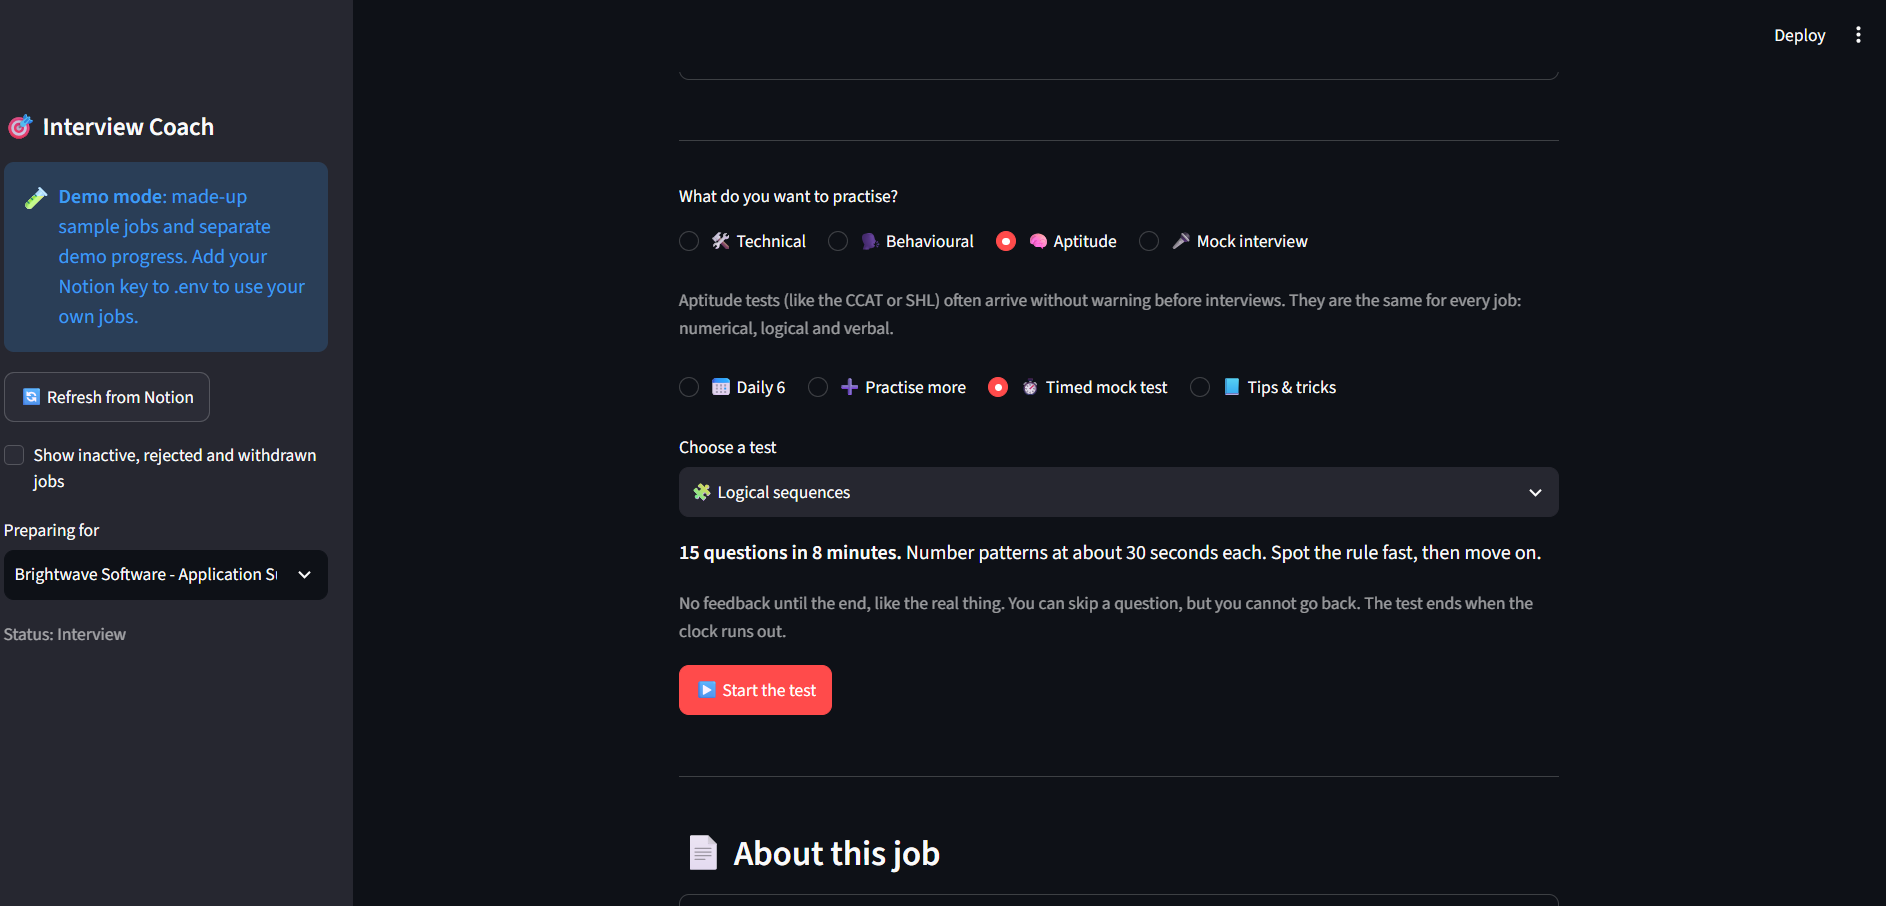
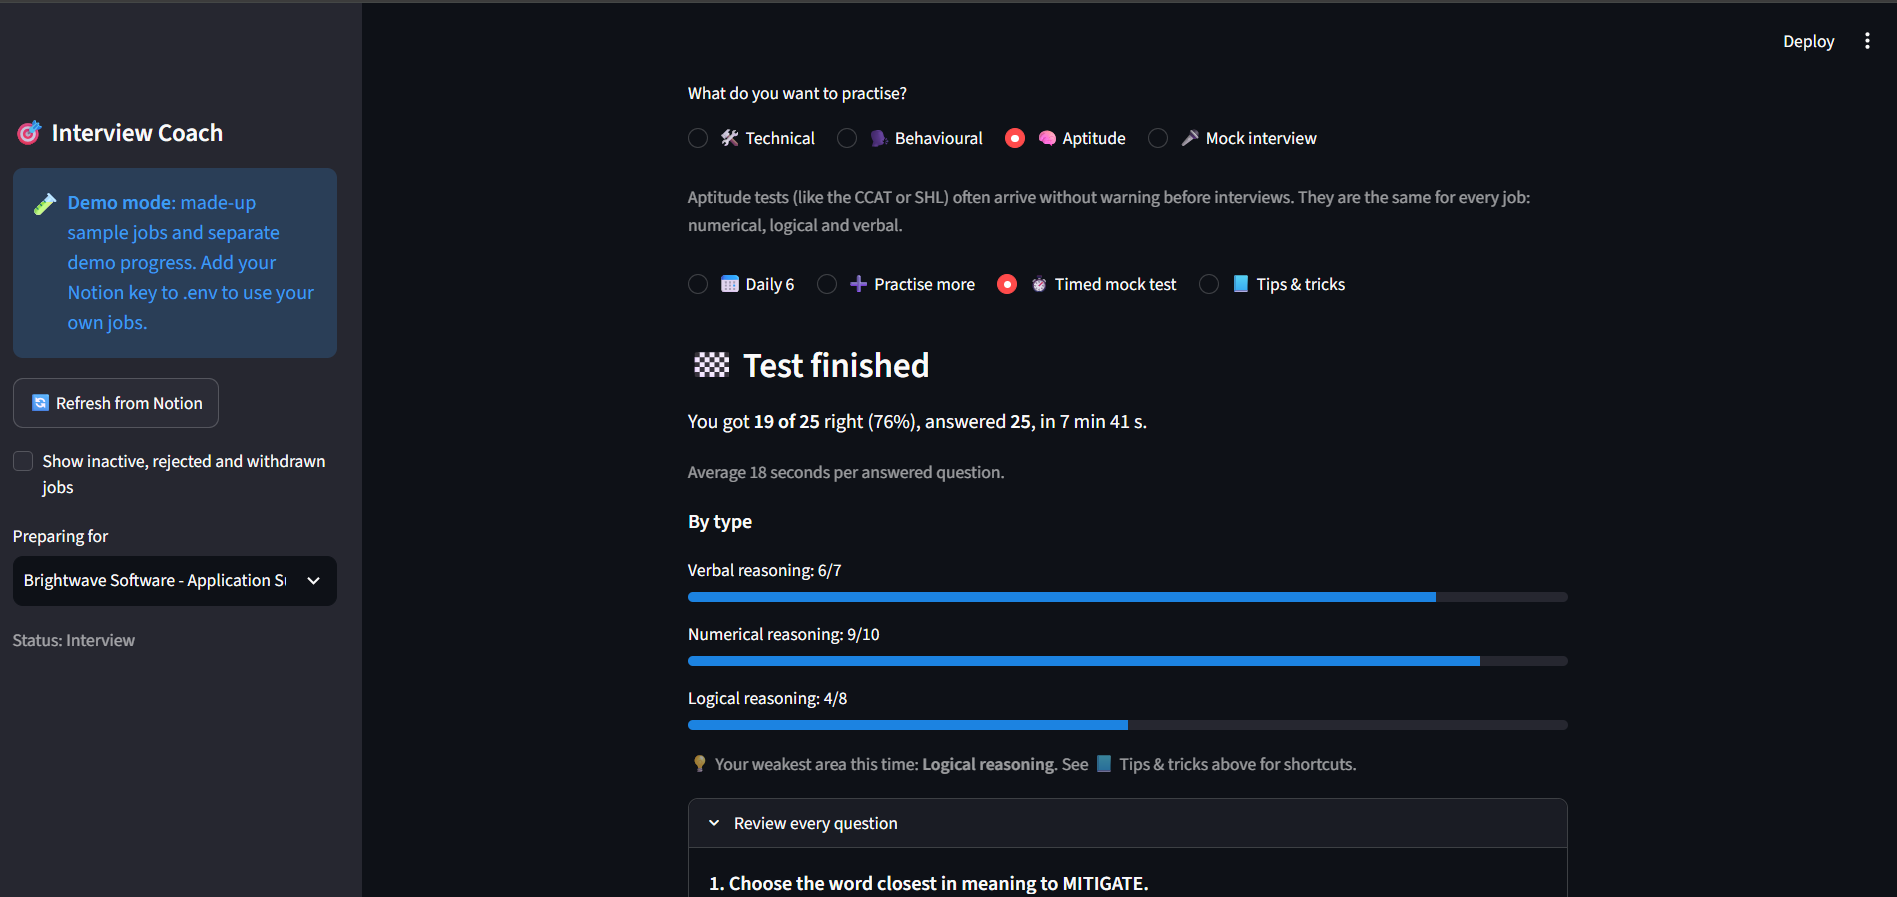
Add README, demo mode and screenshots

diff --git a/README.md b/README.md
@@ -1,87 +1,168 @@
-# ☁ Cloud Prep Hub
+# 🎯 Interview Coach
 
-**Free, interactive study site for the AWS Certified Cloud Practitioner (CLF-C02) exam.**
-Built by two engineers returning to IT, as a hands-on project in team Git workflows, Python automation and CI/CD.
+[![Tests](https://github.com/naseem-ie/Interview-Coach/actions/workflows/tests.yml/badge.svg)](https://github.com/naseem-ie/Interview-Coach/actions/workflows/tests.yml)
+![Python 3.11](https://img.shields.io/badge/python-3.11-blue)
+![Cost: €0](https://img.shields.io/badge/cost-%E2%82%AC0-brightgreen)
+![AI: runs locally](https://img.shields.io/badge/AI-runs%20locally-purple)
 
-🔗 **Live site:** https://naseem-ie.github.io/cloud-prep-hub/
+**A free, private interview-prep app that reads your job applications from Notion and builds daily practice for each role: quizzes, aptitude tests, AI-written questions and mock interviews scored by a local AI.**
 
-![CI/CD](https://github.com/naseem-ie/cloud-prep-hub/actions/workflows/ci-cd.yml/badge.svg)
+I built this while job hunting for application support and implementation roles in Ireland. I was tracking applications in Notion but preparing for interviews somewhere else, with no way to tell how ready I was for a *specific* job. Interview Coach connects the two: each job's skill gaps in Notion decide what you practise, and the app tracks your readiness per job.
+
+![Dashboard: readiness per job and overall progress](docs/screenshots/dashboard.png)
 
 ---
 
-## Features
+## ✨ Features
 
-| Page | What it does |
+| | What it does |
 |---|---|
-| **Home** | Exam readiness score (weighted by domain), domain overview, exam facts |
-| **Quiz** | Practice mode with instant explanations, or a timed exam simulation; per-domain score breakdown and answer review; retry incorrect questions |
-| **Flashcards** | 3D flip cards, filter by domain, shuffle, "Got it / Still learning" tracking, keyboard shortcuts |
-| **Notes** | Notes for all four domains, full-text search with highlighting, contents list with scroll-spy, completion tracking |
+| 🔗 **Reads your Notion job tracker** | Every application, recruiter chat and "to apply" job in one list. Pick a job, see its description, update its status back in Notion. |
+| 🎯 **Per-job readiness** | Technical and behavioural readiness % for the selected job, with a topic-by-topic breakdown of what to work on. |
+| 📅 **Daily challenges** | 5 questions a day per job, picked from a reviewed bank of 86 questions on 17 topics. Spaced repetition brings back questions you got wrong. |
+| 🤖 **AI practice for skill gaps** | When a job needs a skill the bank doesn't cover (say, PowerShell or PRINCE2), a local AI writes practice questions for it. Bad questions can be removed in one click. |
+| 🎤 **Mock interviews** | Open behavioural and job-specific questions. Type your answer and get a score out of 10 against a STAR checklist, a strength and two tips. Past interviews are saved to re-read. |
+| 🧠 **Aptitude tests** | Numerical, logical and verbal reasoning: a daily set, unlimited practice, timed CCAT- and SHL-style mock tests, and a tips & tricks guide. |
+| 🔥 **Gamified progress** | XP, 10 levels, a daily streak and aptitude accuracy across all jobs. |
+| 💾 **Backup & export** | Automatic daily backup to OneDrive, plus CSV export of every answer and interview. |
 
-Also: light/dark theme, mobile-friendly layout, and progress saved in the browser (no account needed).
+## 📸 Screenshots
 
-## How it works
+| AI practice for uncovered skill gaps | Mock interview feedback |
+|---|---|
+| ![AI practice](docs/screenshots/ai-practice.png) | ![Mock interview](docs/screenshots/mock-interview.png) |
+
+| Timed aptitude test with results by type | Aptitude tips & tricks |
+|---|---|
+| ![Aptitude mock test](docs/screenshots/aptitude.png) | ![Tips and tricks](docs/screenshots/tips.png) |
+
+*Screenshots use demo mode with made-up sample jobs.*
+
+## 🧭 How it works
 
 ```mermaid
 flowchart LR
-    A["content/<br/>YAML + Markdown"] -->|scripts/build.py| B["Validate"]
-    B -->|errors fail the build| X["❌ PR blocked"]
-    B --> C["site/data/*.json"]
-    C --> D["Static site<br/>HTML · CSS · JS"]
-    D -->|GitHub Actions| E["GitHub Pages"]
+    N[Notion job tracker] -->|Notion API| A[Streamlit app]
+    B[Question bank<br/>data/questions.json] --> A
+    A <-->|scores, history| D[(SQLite<br/>progress.db)]
+    A <-->|write questions,<br/>score answers| O[Ollama<br/>local AI model]
+    D -->|daily copy| K[OneDrive backup]
 ```
 
-1. **Content as code.** Questions and flashcards are written in YAML, notes in Markdown, so they're easy to review in a pull request.
-2. **Python build pipeline.** `scripts/build.py` validates every item (4 options, a valid answer, unique ids, known domain, weights summing to 100), converts the Markdown to HTML, and writes the JSON the site loads.
-3. **Automated tests.** `pytest` runs the validators against the real content and checks that they catch bad input.
-4. **CI/CD.** GitHub Actions runs the tests on every pull request. Merging to `main` builds and deploys to GitHub Pages automatically.
+1. **Notion → topics.** Each job's *Skill gaps* text is matched against topic keywords (for example "Dynatrace" → Monitoring). Gaps that no topic covers go to the AI.
+2. **Practice → progress.** Every answer is saved in SQLite. Readiness is the share of a job's questions you got right on your latest try, so it goes down again if you forget something.
+3. **AI → feedback.** The local model only says yes or no to each checklist item (situation, action, result, ownership, relevance). The **code** turns that into the score, so the same answer always gets the same score.
 
-## Tech stack
+## 🛠 Tech stack
 
-- **Front end:** HTML5, CSS3 (custom properties, grid, 3D transforms), vanilla JavaScript (ES modules)
-- **Tooling:** Python 3.12, PyYAML, Markdown, pytest
-- **DevOps:** Git feature-branch workflow, pull request reviews, GitHub Actions, GitHub Pages
-- **Cost:** €0
+| Area | Tools |
+|---|---|
+| Language | Python 3.11 |
+| UI | Streamlit |
+| Data | Notion API (`notion-client`), SQLite |
+| AI | Ollama running `qwen3.5:4b` locally (CPU only, no GPU needed) |
+| Testing | pytest: 198 tests, using fake Notion and fake AI clients so they run in about a second |
+| CI | GitHub Actions runs every test on every push |
 
-## Run it locally
+## 🔒 Privacy and cost
+
+- **€0 to run.** No paid APIs or subscriptions. The AI model runs on your own laptop.
+- **Your answers never leave your machine.** Interview answers are scored locally, not sent to a cloud AI.
+- **No secrets in the repo.** The Notion key lives in `.env`, which Git ignores. `progress.db` (your personal scores) is ignored too, and this public repo contains sample data only.
+- **Least-privilege Notion access.** The Notion connection can read pages and update content only. The app only ever changes a job's *Status*.
+
+## 🚀 Getting started
+
+### 1. Install
 
 ```bash
-git clone https://github.com/naseem-ie/cloud-prep-hub.git
-cd cloud-prep-hub
-python -m venv .venv && source .venv/bin/activate     # Windows: .venv\Scripts\activate
-pip install -r requirements.txt
-
-pytest                                   # run the tests
-python scripts/build.py                  # generate site/data/*.json
-python -m http.server 8000 -d site       # open http://localhost:8000
+git clone https://github.com/naseem-ie/Interview-Coach.git
+cd Interview-Coach
+python -m venv .venv
+.venv\Scripts\Activate.ps1        # Windows PowerShell (macOS/Linux: source .venv/bin/activate)
+python -m pip install -r requirements.txt
 ```
 
-## Project structure
+### 2. Try it in demo mode (no Notion needed)
 
-```
-cloud-prep-hub/
-├── content/                 # ✍ The study material, written by hand
-│   ├── domains.yaml
-│   ├── flashcards.yaml
-│   ├── questions/           # one YAML file per exam domain
-│   └── notes/               # one Markdown file per exam domain
-├── scripts/build.py         # 🐍 Validates content and generates JSON
-├── tests/test_content.py    # ✅ pytest suite
-├── site/                    # 🌐 The website GitHub Pages serves
-│   ├── index.html  quiz.html  flashcards.html  notes.html
-│   ├── css/style.css
-│   ├── js/                  # app.js (shared) + one module per page
-│   └── data/                # generated by the build (not committed)
-├── .github/
-│   ├── workflows/ci-cd.yml  # 🚀 Test → build → deploy
-│   └── pull_request_template.md
-└── CONTRIBUTING.md          # How we branch, commit and review
+```bash
+python -m streamlit run app.py
 ```
 
-## Team workflow
+With no Notion key set, the app starts in **demo mode** with made-up sample jobs. Demo progress is saved in a separate `demo.db`. If you have a Notion key but still want the demo, add `DEMO_MODE=1` to `.env`.
 
-We never push directly to `main`. Every change is a branch, a pull request, a green CI check and a review. See [CONTRIBUTING.md](CONTRIBUTING.md).
+### 3. Turn on the AI features (optional)
 
-## Disclaimer
+1. Install [Ollama](https://ollama.com/download) (free).
+2. Download the model, about 3.3 GB: `ollama pull qwen3.5:4b`
 
-Cloud Prep Hub is a community study resource and is not affiliated with or endorsed by Amazon Web Services. Always check the [official exam guide](https://docs.aws.amazon.com/aws-certification/latest/examguides/cloud-practitioner-02.html).
+Quizzes and aptitude tests work without it. AI practice and mock interviews need it. To use a different model, set `OLLAMA_MODEL` in `.env`.
+
+### 4. Connect your own Notion job tracker (optional)
+
+1. Create a Notion database with these columns. The app reads whichever ones exist; **Company**, **Role**, **Status** and **Skill gaps** matter most.
+
+   | Column | Type | Used for |
+   |---|---|---|
+   | Company | Title | Job list |
+   | Role | Text | Job list, mock interview questions |
+   | Status | Select | Hiding closed jobs, updating status |
+   | Skill gaps | Text, separated by `;` | Choosing topics and AI questions |
+   | Next action, Notes, Recruiter, Salary | Text | Job details |
+   | Applied date, Follow-up due | Date | Job details |
+   | Job link, Prep page | URL | Buttons in the app |
+   | Match score | Number | Job details |
+
+2. Paste each job advert into the job's Notion page. The app shows it under *About this job*.
+3. Create a connection at [notion.so/profile/integrations](https://www.notion.so/profile/integrations) with **Read content** and **Update content**, then share the database with it.
+4. Copy `.env.example` to `.env` and fill in:
+
+   ```
+   NOTION_API_KEY=ntn_...
+   NOTION_DATABASE_ID=your-database-id
+   ```
+
+### 5. Run the tests
+
+```bash
+python -m pytest -q
+```
+
+## 📁 Project structure
+
+```
+app.py               Main Streamlit page: job picker, readiness, practice modes
+notion_data.py       Reads jobs and job descriptions from Notion, updates status
+quiz.py              Question bank, topic matching, daily picks, spaced repetition
+progress.py          SQLite: answers, XP, levels, streaks, readiness, interviews
+aptitude.py          Generated numerical and logical questions, mock test formats
+aptitude_page.py     Practise more, timed mock tests, tips screens
+aptitude_tips.py     Tricks for each question type and the study guide
+question_writer.py   Asks the local AI for multiple-choice questions and checks them
+ai_practice.py       AI practice screen (rounds of 5)
+coach.py             Scores interview answers with the local AI
+interview.py         Builds mock interviews from the job's skill gaps
+interview_page.py    Mock interview screen
+backup.py            Daily backup and CSV export
+demo.py              Demo mode with sample jobs
+data/                questions.json (question bank), sample_jobs.json (demo data)
+tests/               pytest suite
+```
+
+## 💡 Design decisions
+
+- **Maths questions are generated by code, never by the AI.** Numerical and logical aptitude questions are built from templates with random numbers, so the answer is always correct and they never run out.
+- **The AI judges, the code scores.** Asking a small model for "a score out of 10" gives inconsistent numbers. Asking it 5 yes/no questions and adding up the points in code gives repeatable scores.
+- **AI thinking mode is off.** On a laptop CPU, thinking mode took about 5½ minutes per answer for the same score that takes about 45 seconds without it.
+- **AI questions are written once and saved**, not regenerated on every page load. They are labelled as AI-written, and you can remove any that are wrong.
+- **Readiness uses your latest try.** A topic you once got right but now get wrong counts as not ready.
+
+## 🗺 Roadmap
+
+- [ ] Docker image for one-command setup
+- [ ] More verbal reasoning questions
+- [ ] Write prep status and best mock interview score back to Notion
+
+---
+
+Built by [Naseem](https://github.com/naseem-ie) as a portfolio project.
